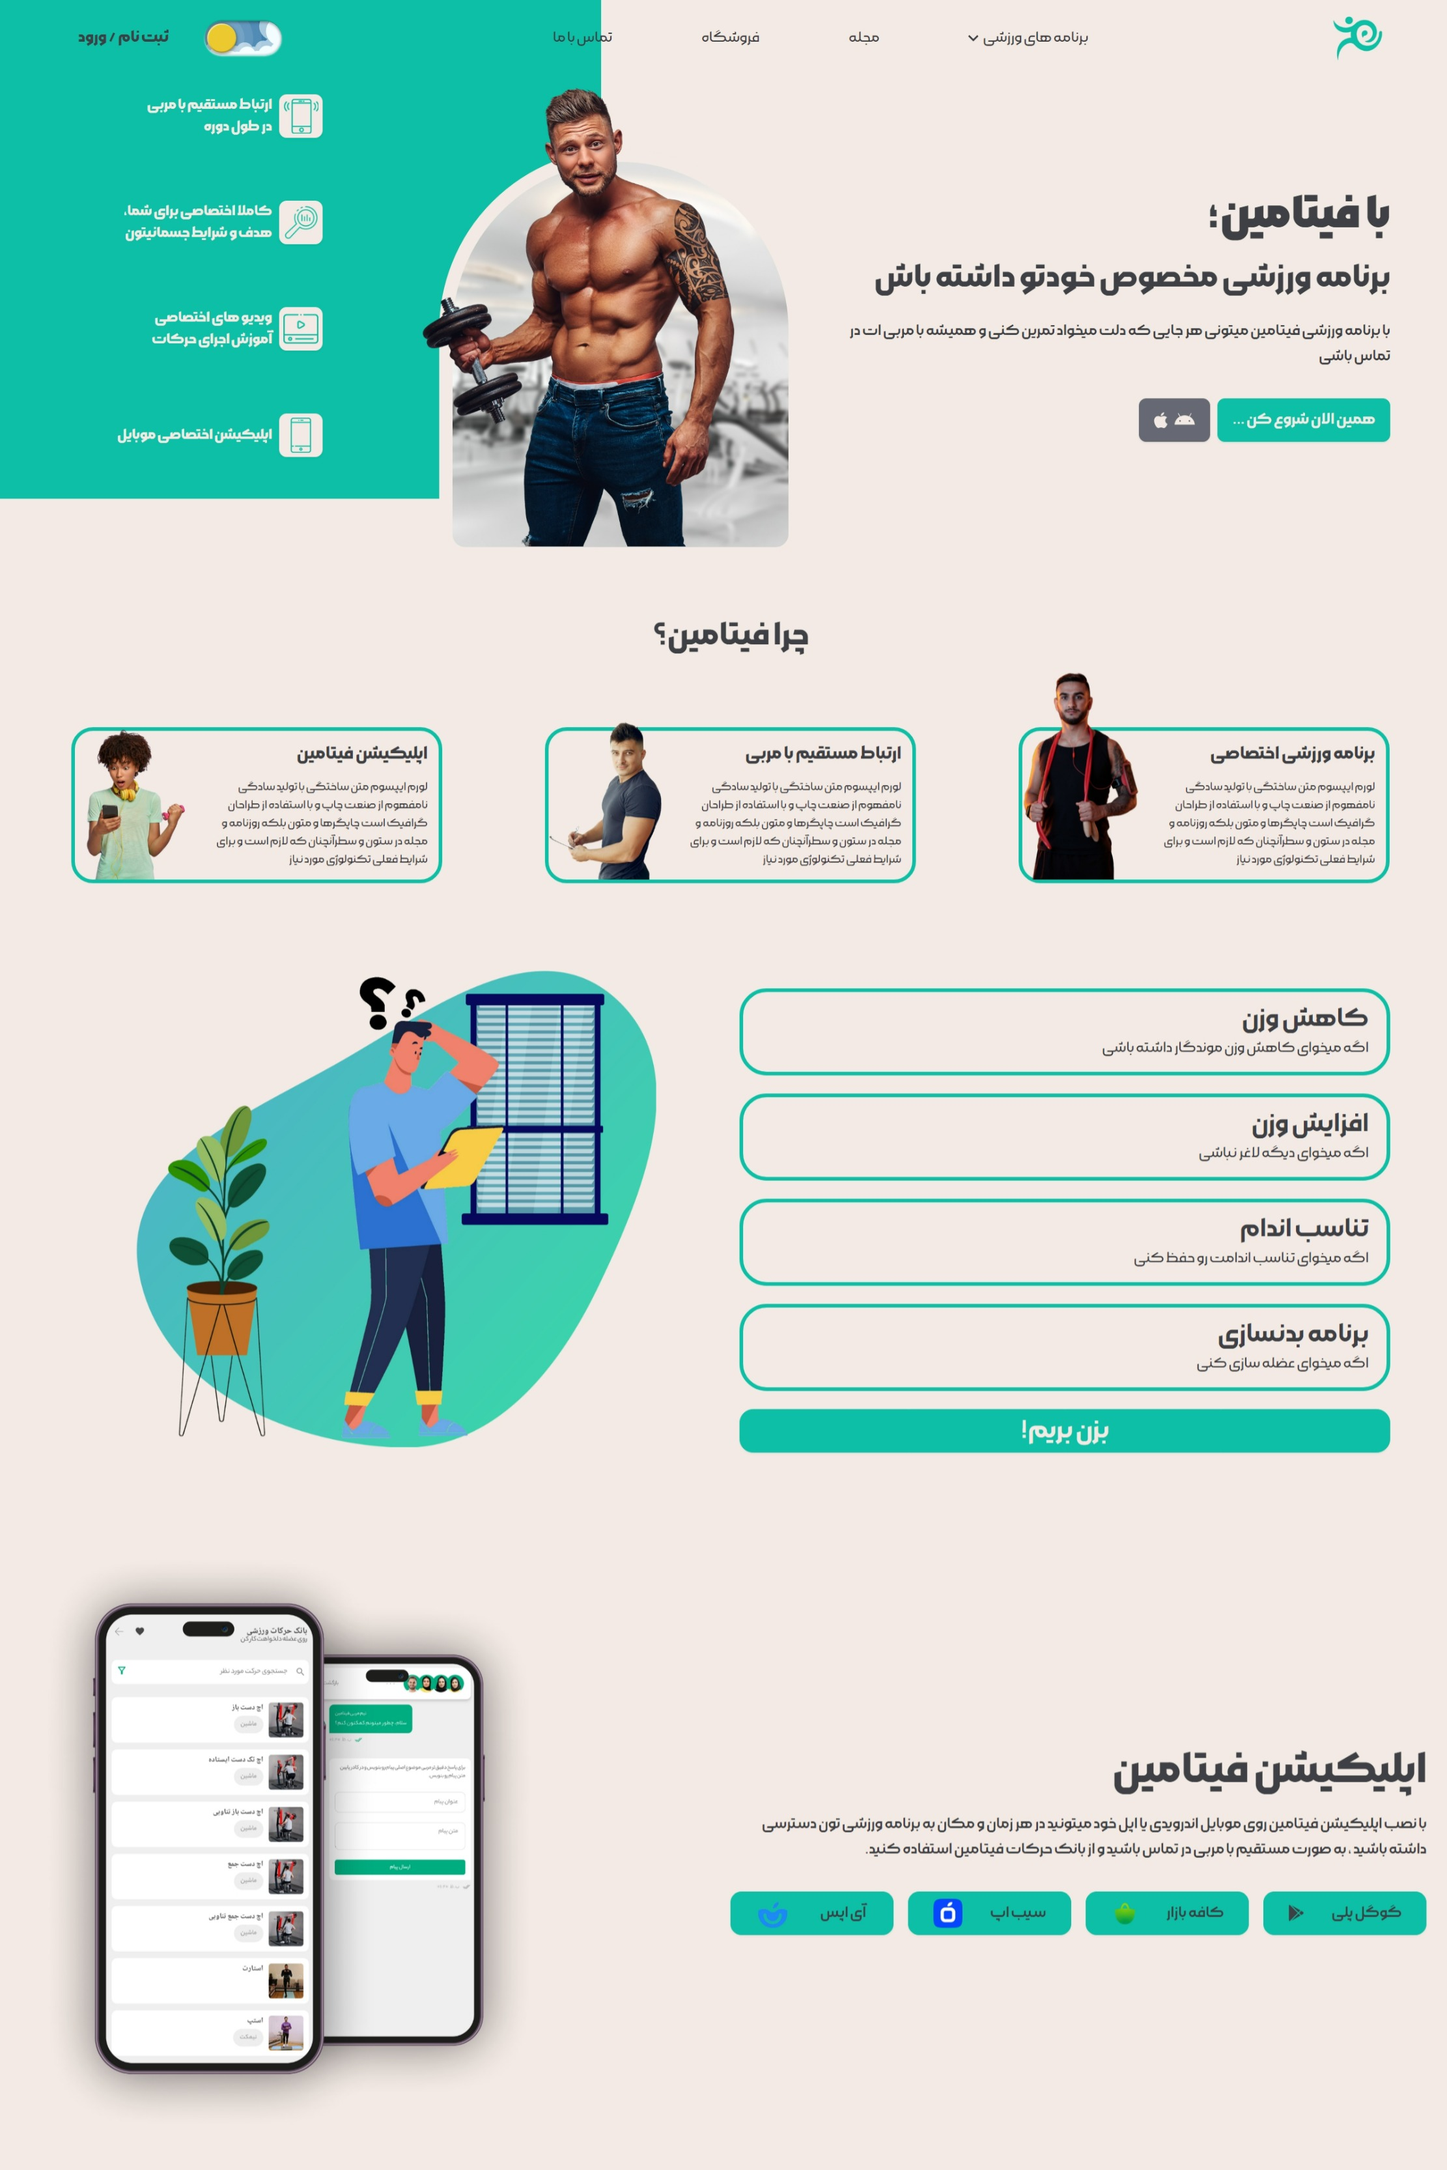
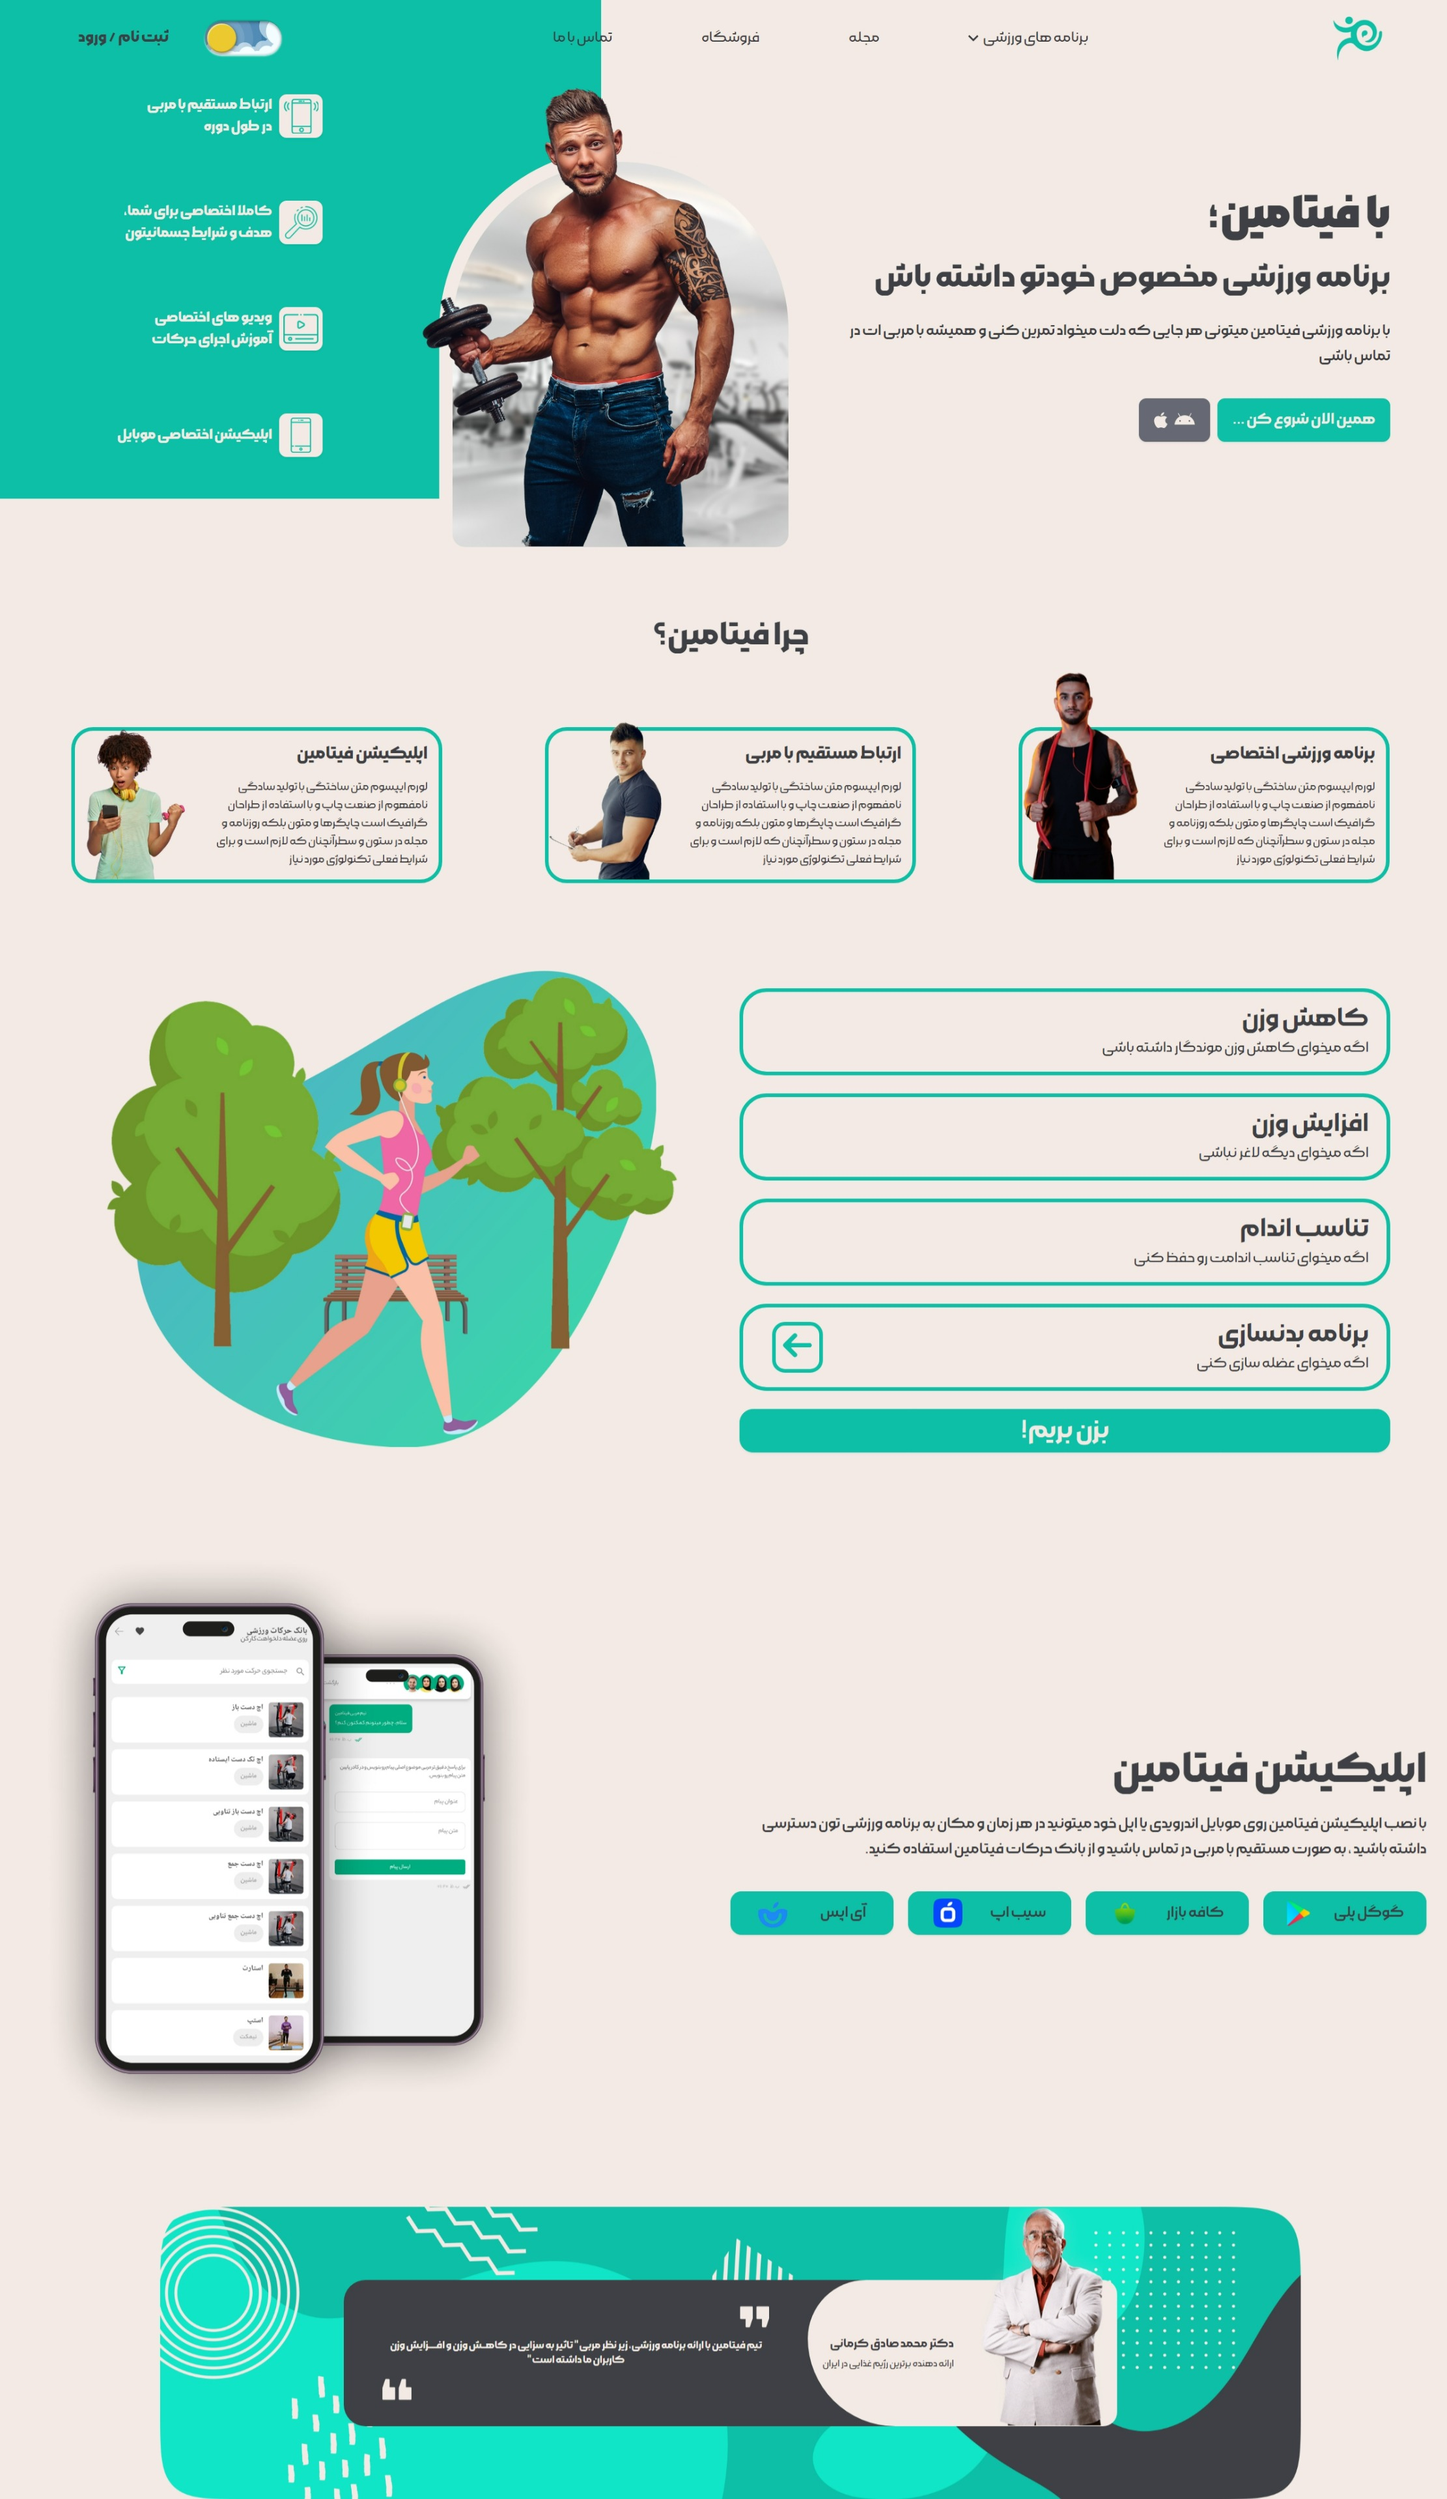
Qoute section added

diff --git a/src/sections/DrSection.vue b/src/sections/DrSection.vue
@@ -1,0 +1,39 @@
+<script setup>
+
+</script>
+
+<template>
+  <div class="container lg:h-[323px] h-[402px] md:mt-10 mt-20">
+    <div id="container"
+         class="h-full bg-contain bg-no-repeat bg-center w-5/6 mx-auto flex justify-center items-center">
+      <div class="lg:bg-[#3E4046] bg-[#0DBFA7] xl:w-4/6 lg:w-9/12 md:w-1/2 w-full xl:h-1/2 lg:h-2/5 h-full m-auto rounded-3xl flex lg:flex-row flex-col">
+        <div class="lg:bg-[#F3EAE5] bg-neutral lg:h-full h-1/2 lg:w-2/5 w-full div-round  flex justify-between relative lg:px-4 lg:overflow-visible overflow-hidden">
+          <div><img src="../../img/DrImage.png" alt="" class="2xl:w-[135px] xl:w-[105px] lg:w-[80px] w-[130px] absolute lg:bottom-0 right-4 bottom-[-40px]"></div>
+          <div id="texts" class="self-center lg:pl-0 pl-6">
+            <p class="text-sm font-semibold lg:text-[#3E4046] text-primary">دکتر محمد صادق کرمانی</p>
+            <p class="text-xs pt-1 lg:text-[#3E4046] text-primary">ارائه دهنده برترین رژیم غذایی در ایران</p>
+          </div>
+        </div>
+        <div class="lg:h-full h-1/2 lg:w-1/2 w-full lg:px-0 px-5 mx-auto flex flex-col justify-center lg:py-4 py-0">
+          <img src="../../img/Quote.png" alt="" class="xl:w-8 w-7 ">
+          <p class="text-[#F3EAE5] font-semibold py-2 text-xs text-center">تیم فیتامین با ارائه برنامه ورزشی، زیر نظر مربی " تاثیر به سزایی در کاهــش وزن و افــــزایش وزن کاربران ما داشته است "</p>
+          <img src="../../img/Quote.png" alt="" class="xl:w-8 w-7 rotate-180 self-end">
+        </div>
+      </div>
+    </div>
+  </div>
+</template>
+
+<style scoped>
+.div-round{
+  @apply lg:rounded-r-3xl lg:rounded-tl-[100px] lg:rounded-bl-[150px] rounded-t-3xl rounded-bl-[160px] rounded-br-[200px];
+}
+@media (min-width: 1024px){
+  #container {
+    background-image: url("../../img/DrSectionBg.png");
+  }
+}
+
+
+
+</style>

diff --git a/src/App.vue b/src/App.vue
@@ -3,6 +3,7 @@ import Header from "./sections/Header.vue";
 import advantages from "./sections/adventages.vue";
 import program from "./sections/program.vue";
 import mobileApp from "./sections/mobile-app.vue"
+import DrSection from "./sections/DrSection.vue";
 import {nextTick} from "vue";
 function setHeight(){
   const width = window.innerWidth;
@@ -28,6 +29,7 @@ window.addEventListener('resize', setHeight)
   <advantages id="advantages"></advantages>
   <program></program>
   <mobile-app></mobile-app>
+  <DrSection></DrSection>
 </template>
 <style scoped>
 </style>
